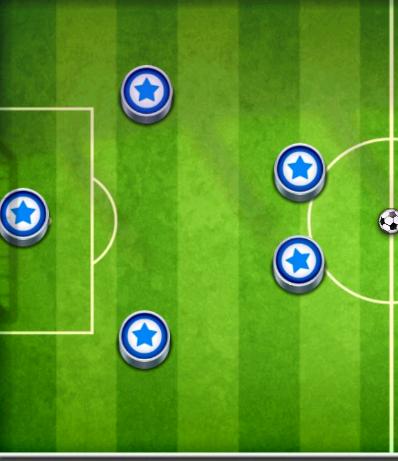
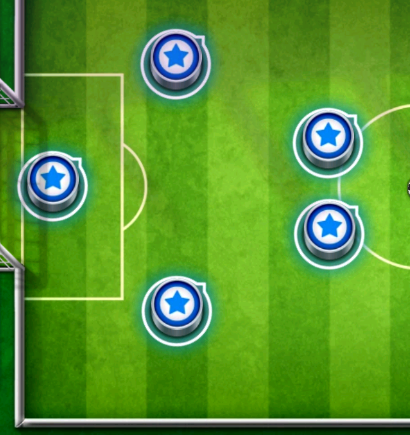
add game environment and physics

diff --git a/environment.py b/environment.py
@@ -1,0 +1,248 @@
+import time
+
+import pygame
+import pymunk
+import pymunk.pygame_util
+import math
+
+
+class Environment:
+    def __init__(self, game_state, radius):
+        self.players_positions = game_state[0]
+        self.players_shapes = []
+        self.opponent_shapes = []
+        self.opponents_positions = game_state[1]
+        self.ball_position = game_state[2][0]
+        self.player_goal_position = game_state[3]
+        self.opponent_goal_position = game_state[4]
+        self.playground = game_state[5]
+        self.space = None
+        self.static_body = None
+        self.walls_elasticity = 0.8
+        self.walls_thickness = 5
+        self.max_force = 1600
+        self.radius = radius
+        self.soccer_ball_shape = None
+        self.player_goal_criteria = self.opponent_goal_position[0]
+        self.opponent_goal_criteria = self.player_goal_position[0] + self.player_goal_position[2]
+
+    def initialize_space(self):
+        self.space = pymunk.Space()
+        self.static_body = self.space.static_body
+
+    def create_walls(self):
+        static_lines = [pymunk.Segment(self.static_body, (self.playground[0], self.playground[1]),
+                                       (self.playground[0] + self.playground[2], self.playground[1]), self.walls_thickness),  # 1
+                        pymunk.Segment(self.static_body, (self.playground[0], self.playground[1] + self.playground[3]),
+                                       (self.playground[0] + self.playground[2], self.playground[1] + self.playground[3]), self.walls_thickness),  # 2
+                        pymunk.Segment(self.static_body, (self.playground[0], self.playground[1]),
+                                       (self.playground[0], self.player_goal_position[1]),
+                                       self.walls_thickness),  # 3
+                        pymunk.Segment(self.static_body,
+                                       (self.playground[0], self.player_goal_position[1] + self.player_goal_position[3]),
+                                       (self.playground[0], self.playground[1] + self.playground[3]), self.walls_thickness),  # 4
+                        pymunk.Segment(self.static_body, (self.playground[0] + self.playground[2], self.playground[1]),
+                                       (self.playground[0] + self.playground[2], self.opponent_goal_position[1]), self.walls_thickness),  # 5
+                        pymunk.Segment(self.static_body,
+                                       (self.playground[0] + self.playground[2], self.playground[1] + self.playground[3]),
+                                       (self.playground[0] + self.playground[2], self.opponent_goal_position[1] + self.opponent_goal_position[3]), self.walls_thickness),  # 6
+                        pymunk.Segment(self.static_body,
+                                       (self.player_goal_position[0], self.player_goal_position[1]),
+                                       (self.player_goal_position[0], self.player_goal_position[1] + self.player_goal_position[3]),
+                                       self.walls_thickness),  # 7
+                        pymunk.Segment(self.static_body,
+                                       (self.opponent_goal_position[0] + self.opponent_goal_position[2], self.opponent_goal_position[1]),
+                                       (self.opponent_goal_position[0] + self.opponent_goal_position[2],
+                                        self.opponent_goal_position[1] + self.opponent_goal_position[3]),
+                                       self.walls_thickness),  # 8
+                        pymunk.Segment(self.static_body,
+                                       (self.playground[0], self.player_goal_position[1]),
+                                       (self.player_goal_position[0], self.player_goal_position[1]),
+                                       self.walls_thickness),  # 9
+                        pymunk.Segment(self.static_body,
+                                       (self.player_goal_position[0], self.player_goal_position[1] + self.player_goal_position[3]),
+                                       (self.playground[0],
+                                        self.player_goal_position[1] + self.player_goal_position[3]),
+                                       self.walls_thickness),  # 10
+                        pymunk.Segment(self.static_body,
+                                       (self.opponent_goal_position[0], self.opponent_goal_position[1]),
+                                       (self.opponent_goal_position[0] + self.opponent_goal_position[2],
+                                        self.opponent_goal_position[1]),
+                                       self.walls_thickness),  # 11
+                        pymunk.Segment(self.static_body,
+                                       (self.opponent_goal_position[0], self.opponent_goal_position[1] + self.opponent_goal_position[3]),
+                                       (self.opponent_goal_position[0] + self.opponent_goal_position[2],
+                                        self.opponent_goal_position[1] + self.opponent_goal_position[3]),
+                                       self.walls_thickness)  # 12
+                        ]
+        for line in static_lines:
+            line.elasticity = self.walls_elasticity
+            self.space.add(line)
+
+    def create_soccer_ball(self, radius=10, mass=10, elasticity=0.8, color=(255, 255, 255, 255)):
+        moment = pymunk.moment_for_circle(mass, 0, radius, (0, 0))
+
+        soccer_ball_body = pymunk.Body(mass, moment)
+        self.soccer_ball_shape = pymunk.Circle(soccer_ball_body, radius)
+
+        self.soccer_ball_shape.elasticity = elasticity
+        soccer_ball_body.position = self.ball_position
+        self.soccer_ball_shape.color = color
+
+        pivot = pymunk.PivotJoint(self.static_body, soccer_ball_body, (0, 0), (0, 0))
+        pivot.max_bias = 0
+        pivot.max_force = self.max_force
+
+        self.space.add(soccer_ball_body, self.soccer_ball_shape, pivot)
+
+        return self.soccer_ball_shape
+
+    def create_soccer_players(self, player_position, color, mass=20, elasticity=0.8):
+        moment = pymunk.moment_for_circle(mass, 0, self.radius, (0, 0))
+
+        soccer_player_body = pymunk.Body(mass, moment)
+        soccer_player_shape = pymunk.Circle(soccer_player_body, self.radius)
+
+        soccer_player_shape.elasticity = elasticity
+        soccer_player_body.position = player_position
+        soccer_player_shape.color = color
+
+        pivot = pymunk.PivotJoint(self.static_body, soccer_player_body, (0, 0), (0, 0))
+        pivot.max_bias = 0
+        pivot.max_force = self.max_force
+
+        self.space.add(soccer_player_body, soccer_player_shape, pivot)
+
+        return soccer_player_shape
+
+    def create_teams(self):
+        for player_position in self.players_positions:
+            player_shape = self.create_soccer_players(player_position, (255, 0, 0, 255))
+            self.players_shapes.append(player_shape)
+
+        for opponent_position in self.opponents_positions:
+            opponent_shape = self.create_soccer_players(opponent_position, (0, 0, 255, 255))
+            self.opponent_shapes.append(opponent_shape)
+
+    @staticmethod
+    def shoot(player_shape, angle, force):
+        x_impulse = math.cos(math.radians(angle))
+        y_impulse = math.sin(math.radians(angle))
+        player_shape.body.apply_impulse_at_local_point((force * x_impulse, force * -y_impulse), (0, 0))
+
+    def check_player_goal_scored(self):
+        object_x, object_y = self.soccer_ball_shape.body.position
+
+        # Check if the ball's position is within the gate coordinates
+        if object_x >= self.player_goal_criteria:
+            print("Player GOAL!!")
+            return True
+
+        return False
+
+    def check_opponent_goal_scored(self):
+        object_x, object_y = self.soccer_ball_shape.body.position
+
+        # Check if the ball's position is within the gate coordinates
+        if object_x <= self.opponent_goal_criteria:
+            print("Opponent GOAL!!")
+            return True
+
+        return False
+
+    def check_objects_stopped(self):
+        # check if all the objects have stopped moving
+        get_state = True
+        objects = self.players_shapes + self.opponent_shapes
+        for obj in objects:
+            if int(obj.body.velocity[0]) != 0 or int(obj.body.velocity[1]) != 0:
+                get_state = False
+
+        if int(self.soccer_ball_shape.body.velocity[0]) != 0 or int(self.soccer_ball_shape.body.velocity[1]) != 0:
+            get_state = False
+
+        return get_state
+
+    def visualize(self):
+
+        # Initialize the pygame window
+        width, height = self.playground[2] + 2 * self.playground[0], self.playground[3] + 2 * self.playground[1]
+        FPS = 120
+        pygame.init()
+        screen = pygame.display.set_mode((width, height))
+        pygame.display.set_caption("Soccer Stars")
+        clock = pygame.time.Clock()
+
+        draw_options = pymunk.pygame_util.DrawOptions(screen)
+
+        running = True
+
+        while running:
+            for _ in self.players_shapes:
+                if self.check_player_goal_scored():
+                    break
+                if self.check_opponent_goal_scored():
+                    break
+
+            for event in pygame.event.get():
+                if event.type == pygame.MOUSEBUTTONDOWN:
+                    Environment.shoot(self.opponent_shapes[0], 0, 2000)
+                if event.type == pygame.QUIT:
+                    running = False
+
+            if self.check_objects_stopped():
+                for i in self.opponent_shapes:
+                    print(i.body.position)
+
+            screen.fill((0, 255, 0))
+
+            # Step the physics simulation
+            dt = 1.0 / FPS
+            self.space.step(dt)
+
+            self.space.debug_draw(draw_options)
+            pygame.display.update()
+            pygame.display.flip()
+            clock.tick(FPS)
+
+        pygame.quit()
+
+    @staticmethod
+    def capture_screenshot(space, width, height, file_name):
+        # Create a surface to capture the screenshot
+        screen_surface = pygame.Surface((width, height))
+
+        # Set up the draw options
+        draw_options = pymunk.pygame_util.DrawOptions(screen_surface)
+        screen_surface.fill((0, 255, 0))
+
+        # Step the physics simulation
+        dt = 1.0 / 120
+        space.step(dt)
+
+        # Draw the Pymunk debug drawing onto the surface
+        space.debug_draw(draw_options)
+
+        # Save the screenshot
+        pygame.image.save(screen_surface, file_name)
+
+    def simulate(self):
+        self.initialize_space()
+        self.create_soccer_ball()
+        self.create_walls()
+        self.create_teams()
+
+
+# state = ([(200, 300), (200, 200)], [(400, 200)], [(514, 373)], (58, 259, 60, 201), (917, 258, 48, 200), (92, 142, 821, 461))
+# e = Environment(state, 20)
+# e.simulate()
+# w, h = e.playground[2] + 2 * e.playground[0], e.playground[3] + 2 * e.playground[1]
+# e.visualize()
+# Environment.capture_screenshot(e.space, w, h, "images/env.png")
+
+# print(tuple(e.opponent_shapes[0].body.position))
+# Environment.shoot(e.opponent_shapes[0], 0, 2000)
+# for _ in range(500):
+#     e.space.step(1/120)
+# print(tuple(e.opponent_shapes[0].body.position))
+# print(e.check_objects_stopped())

diff --git a/main.py b/main.py
@@ -9,6 +9,7 @@ from utils import list_window_names, cv2_to_pil, pil_to_cv2, trim, compare_and_r
 from window_capture import WindowCapture
 from object_detection import ObjectDetection
 from save_element_screenshot import save_element_screenshot
+from environment import Environment
 
 
 class GameAnalyzer:
@@ -37,6 +38,10 @@ class GameAnalyzer:
         self.playground = (0, 0, 0, 0)
         self.get_state = True
         self.game_state = None
+        self.opponent_radius = 0
+        self.player_radius = 0
+        self.ball_radius = 0
+        self.radius = 0
 
     def initialize(self):
         while True:
@@ -65,14 +70,18 @@ class GameAnalyzer:
         sc = pil_to_cv2(trimmed_sc)
 
         height, width, _ = sc.shape
-        save_element_screenshot(sc, "opponent", self.playground[0] + self.playground[2] // 2, self.playground[1], self.playground[2] // 2, self.playground[3])
-        save_element_screenshot(sc, "player", self.playground[0], self.playground[1], self.playground[2] // 2, self.playground[3])
-        save_element_screenshot(sc, "ball", self.playground[0] + self.playground[2] // 2 - (self.playground[2] // 26), self.playground[1], self.playground[2] // 13, self.playground[3])
+        self.opponent_radius = save_element_screenshot(sc, "opponent", self.playground[0] + self.playground[2] // 2, self.playground[1], self.playground[2] // 2, self.playground[3])
+        self.player_radius = save_element_screenshot(sc, "player", self.playground[0], self.playground[1], self.playground[2] // 2, self.playground[3])
+        self.ball_radius = save_element_screenshot(sc, "ball", self.playground[0] + self.playground[2] // 2 - (self.playground[2] // 26), self.playground[1], self.playground[2] // 13, self.playground[3])
+
+        self.radius = min(self.opponent_radius, self.player_radius)
 
         compare_and_resize_images(self.player_image_path, self.opponent_image_path)
 
     def run(self):
         self.initialize()
+
+        count = 0
 
         while True:
             sc = self.window_capture.get_screenshot()
@@ -88,6 +97,7 @@ class GameAnalyzer:
             if is_players_turn(sc, self.player_turn_conf):
                 if self.get_state is True:
                     self.get_state = False
+                    count += 1
                     print("getting game state ...")
 
                     player_rectangles = self.obj_detc_player.find_objects(sc, 0.7)
@@ -101,8 +111,16 @@ class GameAnalyzer:
                     ball_position = ObjectDetection.get_click_points(ball_rectangle)
                     player_goal_position = player_goal_rectangle[0]
                     opponent_goal_position = opponent_goal_rectangle[0]
-                    self.game_state = (players_position, opponents_position, ball_position, player_goal_position, opponent_goal_position, self.playground)
-                    print(self.game_state)
+
+                    ball_position = [(400, 200)]
+
+                    self.game_state = (players_position, opponents_position, tuple(ball_position), tuple(player_goal_position), tuple(opponent_goal_position), tuple(self.playground))
+
+                    env = Environment(self.game_state, self.radius)
+                    env.simulate()
+                    # e.visualize()
+                    w, h = env.playground[2] + 2 * env.playground[0], env.playground[3] + 2 * env.playground[1]
+                    Environment.capture_screenshot(env.space, w, h, f"images/env_{count}.png")
 
                     output_image = self.obj_detc_player.draw_rectangles(sc, player_rectangles)
                     output_image = self.obj_detc_opponent.draw_rectangles(output_image, opponent_rectangles)

diff --git a/save_element_screenshot.py b/save_element_screenshot.py
@@ -5,7 +5,7 @@ import numpy as np
 def save_element_screenshot(image, output_image_image, x, y, width, height):
 
     cropped_image = image[y:y + height, x:x + width]
-    # cv2.imwrite(f'images/cropped_image_{output_image_image}.png', cropped_image)
+    cv2.imwrite(f'images/cropped_image_{output_image_image}.png', cropped_image)
 
     gray_image = cv2.cvtColor(cropped_image, cv2.COLOR_BGR2GRAY)
 
@@ -21,6 +21,7 @@ def save_element_screenshot(image, output_image_image, x, y, width, height):
         screenshot = cropped_image[y_circle - r_circle:y_circle + r_circle, x_circle - r_circle:x_circle + r_circle]
 
         cv2.imwrite(f'images/{output_image_image}.jpg', screenshot)
+        return r_circle
 
     else:
         print("None.")
